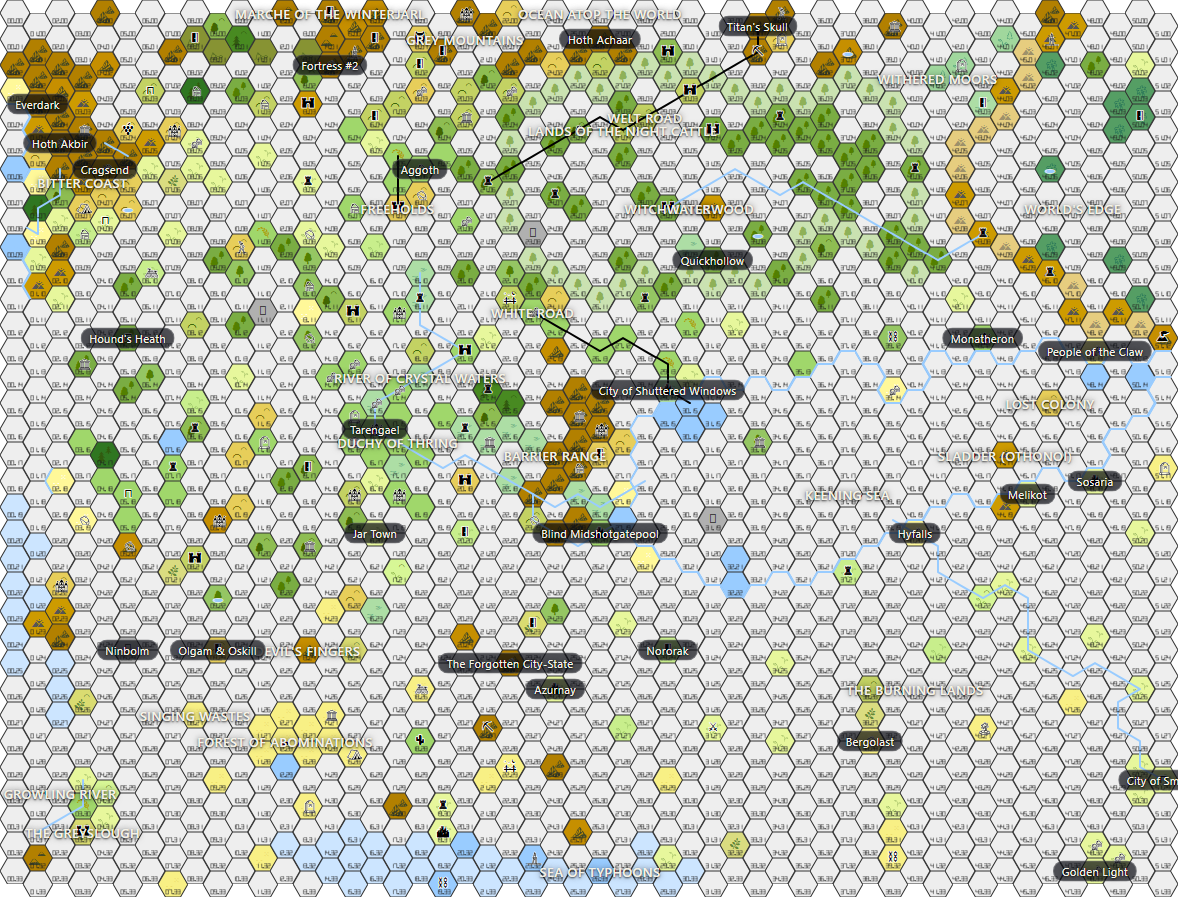
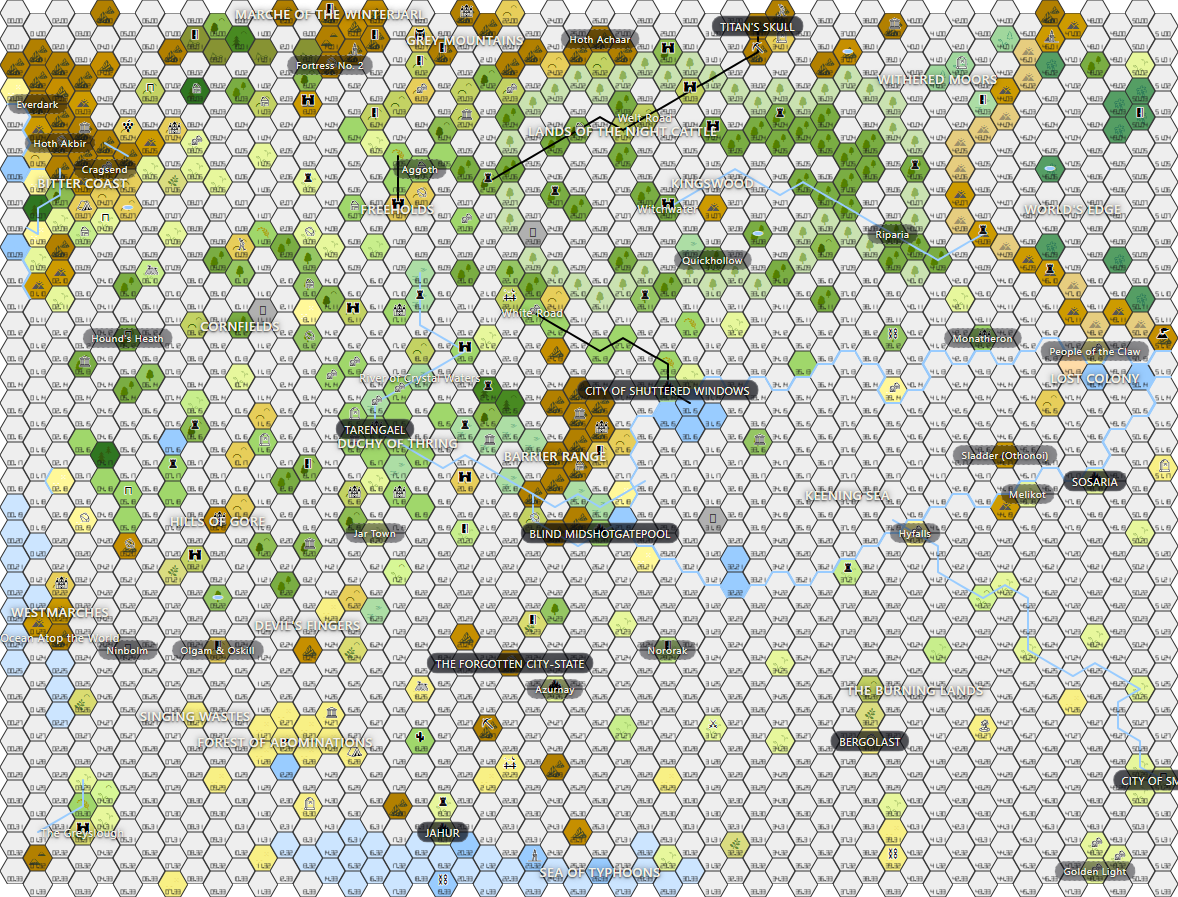
map update

diff --git a/docs/index.html b/docs/index.html
@@ -57,9 +57,9 @@ Let me be your guide to the Shrouded Lands. We shall start at the Pool of the Fi
 
 The Welt Road surfaces at the Lands of the Night Cattle, where they graze their cattle under the moon so as to keep their hides pure white and untouched by sun. The Welt Road continues north to Titan’s Skull, the great fastness of the dwarves. If we continue our passage east, we pass through the Withered Moors and come to the World’s Edge: a great cliff which stretches north and south for many miles above the jungles that lie far below.
 
-We return now to the Lands of the Night Cattle and take the Welt Road back, this time heading south along the White Road to the City of Shuttered Windows. Its walls stand tall and unmoving, but the city itself is sinking into the ground. The Shuttered City is on the shore of the Keening Sea, and as we head south-east we come to the gnoll-ridden Burning Lands. Of these lands we will say little, except that beyond them still are the Twelve Nations, or what remains of them. ![](/media/The_Shrouded_Lands_Regions.png)
+We return now to the Lands of the Night Cattle and take the Welt Road back, this time heading south along the White Road to the City of Shuttered Windows. Its walls stand tall and unmoving, but the city itself is sinking into the ground. The Shuttered City is on the shore of the Keening Sea, and as we head south-east we come to the gnoll-ridden Burning Lands. Of these lands we will say little, except that beyond them still are the Twelve Nations, or what remains of them. 
 
-These are the great sights of the Shrouded Lands – unless you have others that you wish to tell me of? [![](/assets/world-map.png)](/world-map/)
+These are the great sights of the Shrouded Lands – unless you have others that you wish to tell me of? [![](/assets/world-map-white.png)](/world-map/)
 
 ## Contributing to the Shrouded Lands
 

diff --git a/docs/world-map.html b/docs/world-map.html
@@ -10,7 +10,7 @@ body_class: world-map-page
 <h1>World Map</h1>
 <p class="desc">
   Every hex in the Shrouded Lands, rendered as a single map. Click a hex to open
-  its entry. [Download PNG version.](/assets/world-map-full.png)]
+  its entry. <a href="/assets/world-map-full.png">Download PNG version.</a> or <a href="/assets/world-map-white-full.png">without hexes</a>.
 </p>
 
 

diff --git a/docs/scripts/render_world_map_png.py b/docs/scripts/render_world_map_png.py
@@ -6,7 +6,9 @@ Usage:
     --output /path/to/world-map.png
 
 The script also writes a full-size map alongside the requested output with a
-"-full" suffix (for example, world-map-full.png).
+"-full" suffix (for example, world-map-full.png). In addition, it renders
+small/full maps using the hex-white tiles with a "-white" suffix (for example,
+world-map-white.png and world-map-white-full.png).
 
 Requirements:
   - Playwright for Python: pip install playwright
@@ -245,14 +247,18 @@ def main() -> int:
 
     repo_root = Path(__file__).resolve().parents[2]
     hex_dir = repo_root / "docs" / "assets" / "hexes"
+    hex_white_dir = repo_root / "docs" / "assets" / "hex-white"
     labels_path = repo_root / "docs" / "_data" / "world-map-labels.yml"
 
     if not hex_dir.exists():
         raise FileNotFoundError(f"Hex assets not found: {hex_dir}")
+    if not hex_white_dir.exists():
+        raise FileNotFoundError(f"Hex assets not found: {hex_white_dir}")
     if not labels_path.exists():
         raise FileNotFoundError(f"Labels file not found: {labels_path}")
 
     html = build_world_map_html(hex_dir, labels_path)
+    white_html = build_world_map_html(hex_white_dir, labels_path)
     width = HEX_WIDTH + HEX_X_STEP * (COLS - 1)
     height = HEX_HEIGHT + HEX_Y_STEP * (ROWS - 1) + HEX_Y_OFFSET
     viewport_width = math.ceil(width)
@@ -263,6 +269,12 @@ def main() -> int:
 
     full_size_path = output_path.with_name(
         f"{output_path.stem}-full{output_path.suffix}"
+    )
+    white_output_path = output_path.with_name(
+        f"{output_path.stem}-white{output_path.suffix}"
+    )
+    white_full_size_path = output_path.with_name(
+        f"{output_path.stem}-white-full{output_path.suffix}"
     )
 
     render_map(
@@ -281,9 +293,27 @@ def main() -> int:
         args.timeout_ms,
         1.0,
     )
+    render_map(
+        white_html,
+        white_output_path,
+        viewport_width,
+        viewport_height,
+        args.timeout_ms,
+        args.scale,
+    )
+    render_map(
+        white_html,
+        white_full_size_path,
+        viewport_width,
+        viewport_height,
+        args.timeout_ms,
+        1.0,
+    )
 
     print(f"Saved map to {output_path}")
     print(f"Saved full-size map to {full_size_path}")
+    print(f"Saved white map to {white_output_path}")
+    print(f"Saved white full-size map to {white_full_size_path}")
     return 0
 
 
